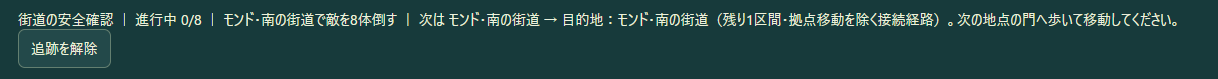
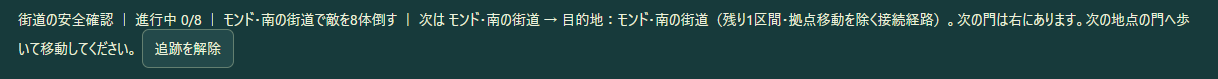
Guide tracked quests toward gates and distinguish ferry arrival

diff --git a/quest-route.js b/quest-route.js
@@ -29,13 +29,24 @@ export function questRouteText(f,q,status){
  const required=Math.max(...path.slice(1).map(id=>nodes.get(id).level||1));
  const notes=[];
  if(level<required)notes.push(`現在のレベルでは通れません。経路上にLv${required}が必要な地点があります`);
+ const actor=f.actors?.find(a=>a.id===f.active);
+ if(actor&&Number.isFinite(actor.x)&&Number.isFinite(actor.y)&&Number.isFinite(edge.x)){
+  const dx=edge.x-actor.x;
+  if(Math.abs(dx)>=90)notes.push(`次の門は${dx>0?'右':'左'}にあります`);
+  else if(Math.abs(actor.y-480)>=60)notes.push('門の横位置まで来ています。地上へ降りてください');
+  else notes.push('次の門の近くです。移動条件を満たすと「F：この門を通る」で進めます');
+ }
  if(edge.windowStart!==undefined){
   const elapsed=f.voyage?.elapsed;
   if(elapsed===undefined)notes.push('寄港中のみ下船できます');
   else if(elapsed+1e-8<edge.windowStart)notes.push(`寄港まで約${Math.ceil(edge.windowStart-elapsed)}秒`);
   else if(elapsed+1e-8>=edge.windowEnd)notes.push('寄港時間を過ぎています。出発港へ戻り、再乗船してください');
   else notes.push(`寄港中：下船できる残り時間は約${Math.ceil(edge.windowEnd-elapsed)}秒`);
- }else if(edge.requiresArrival)notes.push(`船の到着を待ちます${f.voyage?`（約${Math.ceil(f.voyage.seconds)}秒）`:''}`);
+ }else if(edge.requiresArrival){
+  const seconds=f.voyage?.seconds;
+  if(Number.isFinite(seconds)&&seconds<=0)notes.push('船は到着しています。下船する門へ進んでください');
+  else notes.push(`船の到着を待ちます${Number.isFinite(seconds)?`（約${Math.ceil(seconds)}秒）`:''}`);
+ }
  else notes.push('次の地点の門へ歩いて移動してください');
  if(f.paused)notes.push('一時停止中');
  return `次は ${next.name} → 目的地：${nodes.get(target).name}（残り${path.length-1}区間・拠点移動を除く接続経路）。${notes.join('。')}。`;
